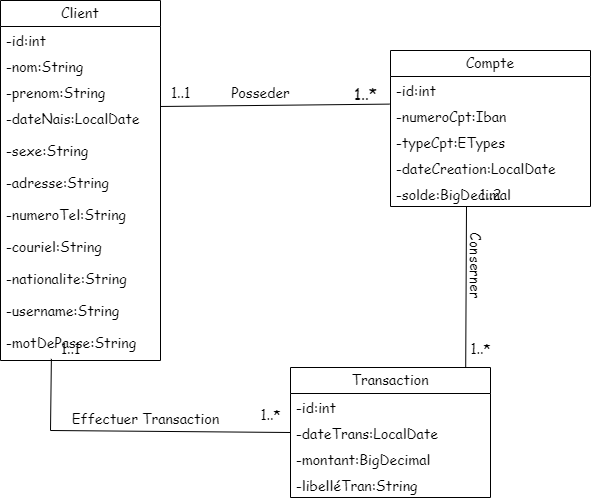
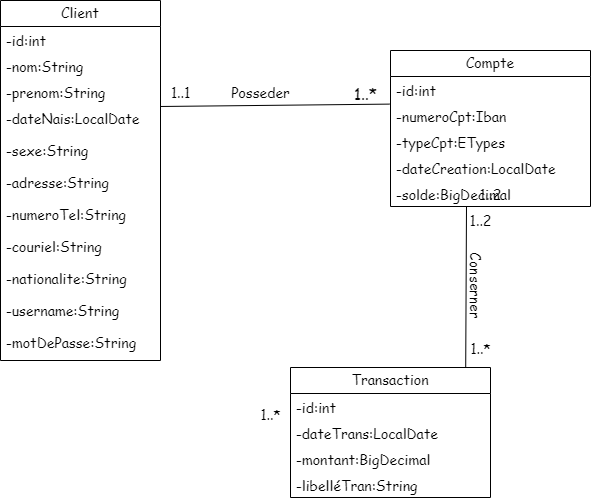
API readyForTesting

Changed region(s): [[0.0914, 0.8084, 0.4569, 0.8683], [0.7919, 0.4192, 0.8223, 0.6287], [0.0609, 0.7186, 0.0914, 0.8383]]

diff --git a/src/main/java/tp/jEE/Groupe3/Service/ServiceImpl/CompteServiceImpl.java b/src/main/java/tp/jEE/Groupe3/Service/ServiceImpl/CompteServiceImpl.java
@@ -3,8 +3,8 @@ package tp.jEE.Groupe3.Service.ServiceImpl;
 import lombok.extern.slf4j.Slf4j;
 import org.iban4j.Iban;
 import org.springframework.beans.factory.annotation.Autowired;
+import org.springframework.security.crypto.password.PasswordEncoder;
 import org.springframework.stereotype.Service;
-import tp.jEE.Groupe3.DAO.ClientDAO;
 import tp.jEE.Groupe3.DAO.CompteDAO;
 import tp.jEE.Groupe3.DAO.TransactionDAO;
 import tp.jEE.Groupe3.Exception.EntityNotFoundException;
@@ -19,10 +19,8 @@ import tp.jEE.Groupe3.Validator.CompteValidator;
 import tp.jEE.Groupe3.models.Compte;
 import tp.jEE.Groupe3.models.TypeTransaction;
 
-import java.math.BigDecimal;
 import java.time.Instant;
 import java.util.List;
-import java.util.Optional;
 import java.util.stream.Collectors;
 
 import static tp.jEE.Groupe3.models.TypeCompte.COURANT;
@@ -31,14 +29,16 @@ import static tp.jEE.Groupe3.models.TypeCompte.EPARGNE;
 @Service
 @Slf4j
 public class CompteServiceImpl implements CompteServices {
-    private CompteRepository compteRepository;
-    private TransactionRepository transactionRepository;
-    private ClientRepository clientRepository;
+    private final CompteRepository compteRepository;
+    private final TransactionRepository transactionRepository;
+    private final PasswordEncoder passwordEncoder;
+    private final ClientRepository clientRepository;
 
     @Autowired
-    public CompteServiceImpl(CompteRepository compteRepostory,TransactionRepository transactionRepository,ClientRepository clientRepository) {
+    public CompteServiceImpl(CompteRepository compteRepostory, TransactionRepository transactionRepository, PasswordEncoder passwordEncoder, ClientRepository clientRepository) {
         this.compteRepository = compteRepostory;
         this.transactionRepository=transactionRepository;
+        this.passwordEncoder = passwordEncoder;
         this.clientRepository=clientRepository;
     }
 
@@ -49,6 +49,7 @@ public class CompteServiceImpl implements CompteServices {
             log.warn("le compte que vous passez n'est pas valid{}",compteDAO);
             throw  new InvalidEntityException("Compte non Valid", ErrorCodes.COMPTE_NOT_VALID);
         }
+        compteDAO.setCodePin(passwordEncoder.encode(compteDAO.getCodePin()));
         return CompteDAO.fromEntity(
                 compteRepository.save(
                         CompteDAO.toEntity(compteDAO)
@@ -79,24 +80,8 @@ public class CompteServiceImpl implements CompteServices {
 
     @Override
     public boolean rechargerCompte(double montant, Iban iban) {
-        if(montant<0){
-            log.error("vous ne pouvez pas recharger un compte avec un montant negatif");
-
-        }
-        if(iban==null){
-            log.warn("le numero de compte doit etre fourni pour faire un depot/rechargement");
-
-        }
-        Compte compte= compteRepository.findCompteByNumeroCpt(iban).get();
-        if(compte.getTypeCompte()==EPARGNE && montant>5000000){
-            log.warn("pour un compte épargne vous ne pouvez pas faire un depot de "+montant);
-            throw new InvalidOperationException("opération invalide",ErrorCodes.COMPTE_NOT_AVAIBLE_FOR_THIS_OPERATION);
-
-        }else if(compte.getTypeCompte()==COURANT && montant>50000000){
-            log.warn("même pour le compte courant vous ne pouvez pas depassé un certain plafond");
-            throw new InvalidOperationException("opération invalide",ErrorCodes.COMPTE_NOT_AVAIBLE_FOR_THIS_OPERATION);
-
-        }
+        Compte compte = searchAccountAndValidAmmount(montant, iban);
+        if (compte == null) return false;
         compte.setSolde(compte.getSolde()+montant);
         compteRepository.save(compte);
         transactionRepository.save(
@@ -107,38 +92,97 @@ public class CompteServiceImpl implements CompteServices {
                                 .libelleTran("dépôt/rechargement de "+montant+" sur le compte "+compte.getNumeroCpt())
                                 .typeTransaction(TypeTransaction.DEPOT)
                                 .compte(CompteDAO.fromEntity(compte))
-                                .client(ClientDAO.fromEntity(
-                                        clientRepository.findClientWhoHasACompt(iban)
-                                        )
-                                )
+
                                 .build()
                 )
         );
         return true;
     }
 
-    @Override
-    public boolean faireRetrait(double montant, Iban iban) {
-        if(montant<0){
+    private Compte searchAccountAndValidAmmount(double montant, Iban iban) {
+        if(montant <0){
             log.error("vous ne pouvez pas recharger un compte avec un montant negatif");
+
         }
-        if(iban==null){
+        if(iban ==null){
             log.warn("le numero de compte doit etre fourni pour faire un depot/rechargement");
 
         }
         Compte compte= compteRepository.findCompteByNumeroCpt(iban).get();
         if(compte==null){
-            log.error("Aucun compte ne correspond au numero de compte donné");
+            log.error("aucun compte n'est trouvé pour ce numero de compte");
+            return null;
         }
-        if(compte.getTypeCompte()==EPARGNE && montant>5000000){
-            log.warn("pour un compte épargne vous ne pouvez pas faire un retrait de "+montant);
+        if(compte.getTypeCompte()==EPARGNE && montant >5000000){
+            log.warn("pour un compte épargne vous ne pouvez pas faire un depot de "+ montant);
             throw new InvalidOperationException("opération invalide",ErrorCodes.COMPTE_NOT_AVAIBLE_FOR_THIS_OPERATION);
 
-        }else if(compte.getTypeCompte()==COURANT && montant>50000000){
+        }else if(compte.getTypeCompte()==COURANT && montant >50000000){
             log.warn("même pour le compte courant vous ne pouvez pas depassé un certain plafond");
             throw new InvalidOperationException("opération invalide",ErrorCodes.COMPTE_NOT_AVAIBLE_FOR_THIS_OPERATION);
 
         }
+        return compte;
+    }
+
+    @Override
+    public TransactionDAO faireVirement(Iban iban1, Iban iban2, double montant) {
+        validateParamaterInformation(iban1, iban2, montant);
+        Compte compte= compteRepository.findCompteByNumeroCpt(iban1).get();
+        Compte compte1= compteRepository.findCompteByNumeroCpt(iban2).get();
+        verificationOfAccountsValidationForpoeration(compte, compte1);
+        if(compte.getSolde()<compte1.getSolde()){
+            throw new InvalidOperationException("vous ne pouvez pas faire un virement si le compte de depot a un montant suppérieur au compte de retrait",ErrorCodes.ACCOUNT_BALANCE_NOT_SUPPORTED);
+        }
+        compte.setSolde(compte.getSolde()-montant);
+        compte1.setSolde(compte1.getSolde()+montant);
+        compteRepository.save(compte);
+        compteRepository.save(compte1);
+
+        return TransactionDAO.fromEntity(
+                transactionRepository.save(
+                    TransactionDAO.toEntity(
+                            TransactionDAO.builder()
+                                    .dateCreation(Instant.now())
+                                    .montant(montant)
+                                    .libelleTran("Virement de "+montant+" sur le compte "+compte.getNumeroCpt())
+                                    .typeTransaction(TypeTransaction.DEPOT)
+                                    .compte(CompteDAO.fromEntity(compte))
+                                    .build()
+                )
+        ));
+    }
+
+    private static void validateParamaterInformation(Iban iban1, Iban iban2, double montant) {
+        if(montant <0){
+            log.error("vous ne pouvez pas recharger un compte avec un montant negatif");
+
+        }
+        if(iban1 ==null){
+            log.warn("le numero de compte doit etre fourni pour faire un depot/rechargement");
+
+        }
+        if(iban2 ==null){
+            log.warn("le numero de compte doit etre fourni pour faire un depot/rechargement");
+
+        }
+    }
+
+    private static void verificationOfAccountsValidationForpoeration(Compte compte, Compte compte1) {
+        if(compte ==null && compte1 ==null){
+            log.error("les comptes pour le depot et le compte de retrait n'ont pas été trouvé");
+        }
+        if(compte ==null ){
+            log.error("le compte expéditeur n'est pas trouvé");
+        }
+        if(compte1 ==null ){
+            log.error("le compte recepteur n'est pas trouvé");
+        }
+    }
+
+    @Override
+    public boolean faireRetrait(double montant, Iban iban) {
+        Compte compte = validateNumberOfAccountAndValideAmount(montant, iban);
         if(validCompteForRetrait(montant, compte)==false){
             log.warn("compte not valid for this operation");
         }
@@ -152,14 +196,34 @@ public class CompteServiceImpl implements CompteServices {
                                 .libelleTran("Retrait du "+montant+" sur le compte "+compte.getNumeroCpt())
                                 .typeTransaction(TypeTransaction.RETRAIT)
                                 .compte(CompteDAO.fromEntity(compte))
-                                .client(ClientDAO.fromEntity(
-                                                clientRepository.findClientWhoHasACompt(iban)
-                                        )
-                                )
                                 .build()
                 )
         );
         return true;
+    }
+
+    private Compte validateNumberOfAccountAndValideAmount(double montant, Iban iban) {
+        if(montant <0){
+            log.error("vous ne pouvez pas recharger un compte avec un montant negatif");
+        }
+        if(iban ==null){
+            log.warn("le numero de compte doit etre fourni pour faire un depot/rechargement");
+
+        }
+        Compte compte= compteRepository.findCompteByNumeroCpt(iban).get();
+        if(compte==null){
+            log.error("Aucun compte ne correspond au numero de compte donné");
+        }
+        if(compte.getTypeCompte()==EPARGNE && montant >5000000){
+            log.warn("pour un compte épargne vous ne pouvez pas faire un retrait de "+ montant);
+            throw new InvalidOperationException("opération invalide",ErrorCodes.COMPTE_NOT_AVAIBLE_FOR_THIS_OPERATION);
+
+        }else if(compte.getTypeCompte()==COURANT && montant >50000000){
+            log.warn("même pour le compte courant vous ne pouvez pas depassé un certain plafond");
+            throw new InvalidOperationException("opération invalide",ErrorCodes.COMPTE_NOT_AVAIBLE_FOR_THIS_OPERATION);
+
+        }
+        return compte;
     }
 
     private static boolean validCompteForRetrait(double montant, Compte compte) {

diff --git a/src/main/java/tp/jEE/Groupe3/DAO/TransactionDAO.java b/src/main/java/tp/jEE/Groupe3/DAO/TransactionDAO.java
@@ -29,7 +29,6 @@ public class TransactionDAO {
     private String libelleTran;
     private TypeTransaction typeTransaction;
     private CompteDAO compte;
-    private ClientDAO client;
 
     public static TransactionDAO fromEntity(Transaction transaction){
         if(transaction==null){
@@ -42,7 +41,6 @@ public class TransactionDAO {
                 .typeTransaction(transaction.getTypeTransaction())
                 .libelleTran(transaction.getLibelleTran())
                 .compte(CompteDAO.fromEntity(transaction.getCompte()))
-                .client(ClientDAO.fromEntity(transaction.getClient()))
                 .build();
     }
 
@@ -57,7 +55,6 @@ public class TransactionDAO {
                 .typeTransaction(transactionDAO.getTypeTransaction())
                 .libelleTran(transactionDAO.getLibelleTran())
                 .compte(CompteDAO.toEntity(transactionDAO.getCompte()))
-                .client(ClientDAO.toEntity(transactionDAO.getClient()))
                 .build();
     }
 }

diff --git a/src/main/java/tp/jEE/Groupe3/DAO/CompteDAO.java b/src/main/java/tp/jEE/Groupe3/DAO/CompteDAO.java
@@ -26,6 +26,7 @@ public class CompteDAO {
     private Iban numeroCpt;
     private TypeCompte typeCompte;
     private double solde;
+    private String codePin;
     private ClientDAO client;
     @JsonIgnore
     private List<Transaction> transactionList;
@@ -37,6 +38,7 @@ public class CompteDAO {
                 .numeroCpt(compte.getNumeroCpt())
                 .typeCompte(compte.getTypeCompte())
                 .solde(compte.getSolde())
+                .codePin(compte.getCodePin())
                 .client(ClientDAO.fromEntity(compte.getClient()))
                 .build();
     }
@@ -49,6 +51,7 @@ public class CompteDAO {
         compte.setId(compteDAO.getId());
         compte.setNumeroCpt(compteDAO.getNumeroCpt());
         compte.setTypeCompte(compteDAO.getTypeCompte());
+        compte.setCodePin(compte.getCodePin());
         compte.setSolde(compteDAO.getSolde());
         compte.setClient(ClientDAO.toEntity(compteDAO.getClient()));
         return compte;

diff --git a/src/main/java/tp/jEE/Groupe3/Controller/API/CompteAPI.java b/src/main/java/tp/jEE/Groupe3/Controller/API/CompteAPI.java
@@ -40,6 +40,10 @@ public interface CompteAPI {
     boolean rechargerCompte(@PathVariable("montant") double montant,@PathVariable("iban") Iban iban);
     @GetMapping(value = APP_ROOT+"comptes/faireRetrait/{montant}/{iban}",produces = MediaType.APPLICATION_JSON_VALUE)
     boolean faireRetrait(@PathVariable("montant") double montant,@PathVariable("iban") Iban iban);
+
+
+    @PostMapping(value = APP_ROOT+"comptes/faireVirement/{iban1}/{iban2}/{montant}",produces = MediaType.APPLICATION_JSON_VALUE)
+    TransactionDAO faireVirement(@PathVariable("iban1") Iban iban1,@PathVariable("iban2") Iban iban2,@PathVariable("montant") double montant);
     @GetMapping(value = APP_ROOT+"comptes/all",produces = MediaType.APPLICATION_JSON_VALUE)
     @ApiOperation(value = "Renvoi la liste des comptes", notes=" cette methode permet de retourner des comptes ",responseContainer = "List<CompteDAO>")
     @ApiResponses(value = {

diff --git a/src/main/java/tp/jEE/Groupe3/Validator/TransactionValidator.java b/src/main/java/tp/jEE/Groupe3/Validator/TransactionValidator.java
@@ -17,13 +17,11 @@ public class TransactionValidator {
             errors.add("on doit pouvoir savoir quel compte est associé à une transaction");
 
         }
-        if(transactionDAO.getMontant()==null){
-            errors.add("vous ne pouvez pas construire un objet transaction sans fournir le montant de la transaction");
+        if(transactionDAO.getMontant()<0){
+            errors.add("vous ne pouvez pas construire un objet transaction avec le montant de la transaction négatif");
         }
 
-        if(transactionDAO.getClient()==null){
-            errors.add("vous créez une transaction sans fournir le client qui fait la transaction... vous voulez que la banque fasse faillite c'est ça ?♠♠○-");
-        }
+
         if(transactionDAO.getCompte()==null){
             errors.add("on doit pouvoir savoir quel compte est associé à une transaction");
         }

diff --git a/src/main/java/tp/jEE/Groupe3/Controller/CompteController.java b/src/main/java/tp/jEE/Groupe3/Controller/CompteController.java
@@ -6,6 +6,7 @@ import org.springframework.web.bind.annotation.CrossOrigin;
 import org.springframework.web.bind.annotation.RestController;
 import tp.jEE.Groupe3.Controller.API.CompteAPI;
 import tp.jEE.Groupe3.DAO.CompteDAO;
+import tp.jEE.Groupe3.DAO.TransactionDAO;
 import tp.jEE.Groupe3.Service.CompteServices;
 
 import java.util.List;
@@ -38,6 +39,11 @@ public class CompteController implements CompteAPI {
     @Override
     public boolean rechargerCompte(double montant, Iban iban) {
         return compteServices.rechargerCompte(montant,iban);
+    }
+
+    @Override
+    public TransactionDAO faireVirement(Iban iban1, Iban iban2, double montant) {
+        return compteServices.faireVirement(iban1,iban2,montant);
     }
 
     @Override

diff --git a/src/main/java/tp/jEE/Groupe3/Service/CompteServices.java b/src/main/java/tp/jEE/Groupe3/Service/CompteServices.java
@@ -2,6 +2,7 @@ package tp.jEE.Groupe3.Service;
 
 import org.iban4j.Iban;
 import tp.jEE.Groupe3.DAO.CompteDAO;
+import tp.jEE.Groupe3.DAO.TransactionDAO;
 import tp.jEE.Groupe3.models.Compte;
 
 import java.math.BigDecimal;
@@ -12,6 +13,7 @@ public interface CompteServices {
     CompteDAO findById(Integer id);
     CompteDAO findByNumeroCpt(Iban iban);
     boolean rechargerCompte(double montant, Iban iban);
+    TransactionDAO faireVirement(Iban iban1, Iban iban2, double montant);
     boolean faireRetrait(double montant,Iban iban);
     List<CompteDAO> findAll();
     void delete(Integer id);

diff --git a/src/main/java/tp/jEE/Groupe3/Repository/ClientRepository.java b/src/main/java/tp/jEE/Groupe3/Repository/ClientRepository.java
@@ -13,9 +13,8 @@ import java.util.Optional;
 public interface ClientRepository extends JpaRepository<Client,Integer> {
     Optional<Client> findClientByUsername(String username);
     Optional<Client> findClientByNom(String nom);
-    @Query("select * from  Compte cpt where cpt.client.id= :idClient")
+    @Query("select cpt from  Compte cpt where cpt.client.id= :idClient")
     List<Compte> findAllCompte(@Param("idClient") Integer id);
-
     @Query("select clt from Compte c, Client clt where c.id=clt.id and c.numeroCpt= :iban")
     Client findClientWhoHasACompt(@Param("iban")Iban iban);
 }

diff --git a/src/main/java/tp/jEE/Groupe3/Service/ServiceImpl/TransactionServiceImpl.java b/src/main/java/tp/jEE/Groupe3/Service/ServiceImpl/TransactionServiceImpl.java
@@ -75,7 +75,7 @@ public class TransactionServiceImpl implements TransactionServices {
             return;
         }
         Optional<Transaction> transaction=transactionRepository.findById(id);
-        if (transaction.get().getClient()==null && transaction.get().getCompte()==null){
+        if (transaction.get().getCompte()==null && transaction.get().getCompte().getClient()==null){
             transactionRepository.deleteById(id);
         }else{
             throw new InvalidOperationException("vous ne pouvez pas supprimé une transaction qui est lié à des comptes et à des clients");

diff --git a/src/main/java/tp/jEE/Groupe3/models/Client.java b/src/main/java/tp/jEE/Groupe3/models/Client.java
@@ -43,8 +43,6 @@ public class Client extends AbstractEntity implements UserDetails {
 
     @OneToMany(mappedBy = "client")
     private List<Compte> listCompte;
-    @OneToMany(mappedBy = "client")
-    private List<Transaction> transactionList;
 
     @Override
     public Collection<? extends GrantedAuthority> getAuthorities() {

diff --git a/src/main/java/tp/jEE/Groupe3/Exception/ErrorCodes.java b/src/main/java/tp/jEE/Groupe3/Exception/ErrorCodes.java
@@ -7,7 +7,8 @@ public enum ErrorCodes {
     COMPTE_NOT_FOUND(2001),
     CLIENT_NOT_VALID(3000),
     CLIENT_NOT_FOUND(3001),
-    COMPTE_NOT_AVAIBLE_FOR_THIS_OPERATION(4000);
+    COMPTE_NOT_AVAIBLE_FOR_THIS_OPERATION(4000),
+    ACCOUNT_BALANCE_NOT_SUPPORTED(5000);
     ErrorCodes(int code){
         this.errorCode=code;
     }

diff --git a/src/main/java/tp/jEE/Groupe3/models/Compte.java b/src/main/java/tp/jEE/Groupe3/models/Compte.java
@@ -25,6 +25,8 @@ public class Compte extends AbstractEntity{
     @Column(name = "solde")
     private double solde;
 
+    @Column(name = "codePIN",nullable = false)
+    private String codePin;
     @ManyToOne
     @JoinColumn(name = "idClient")
     private Client client;
